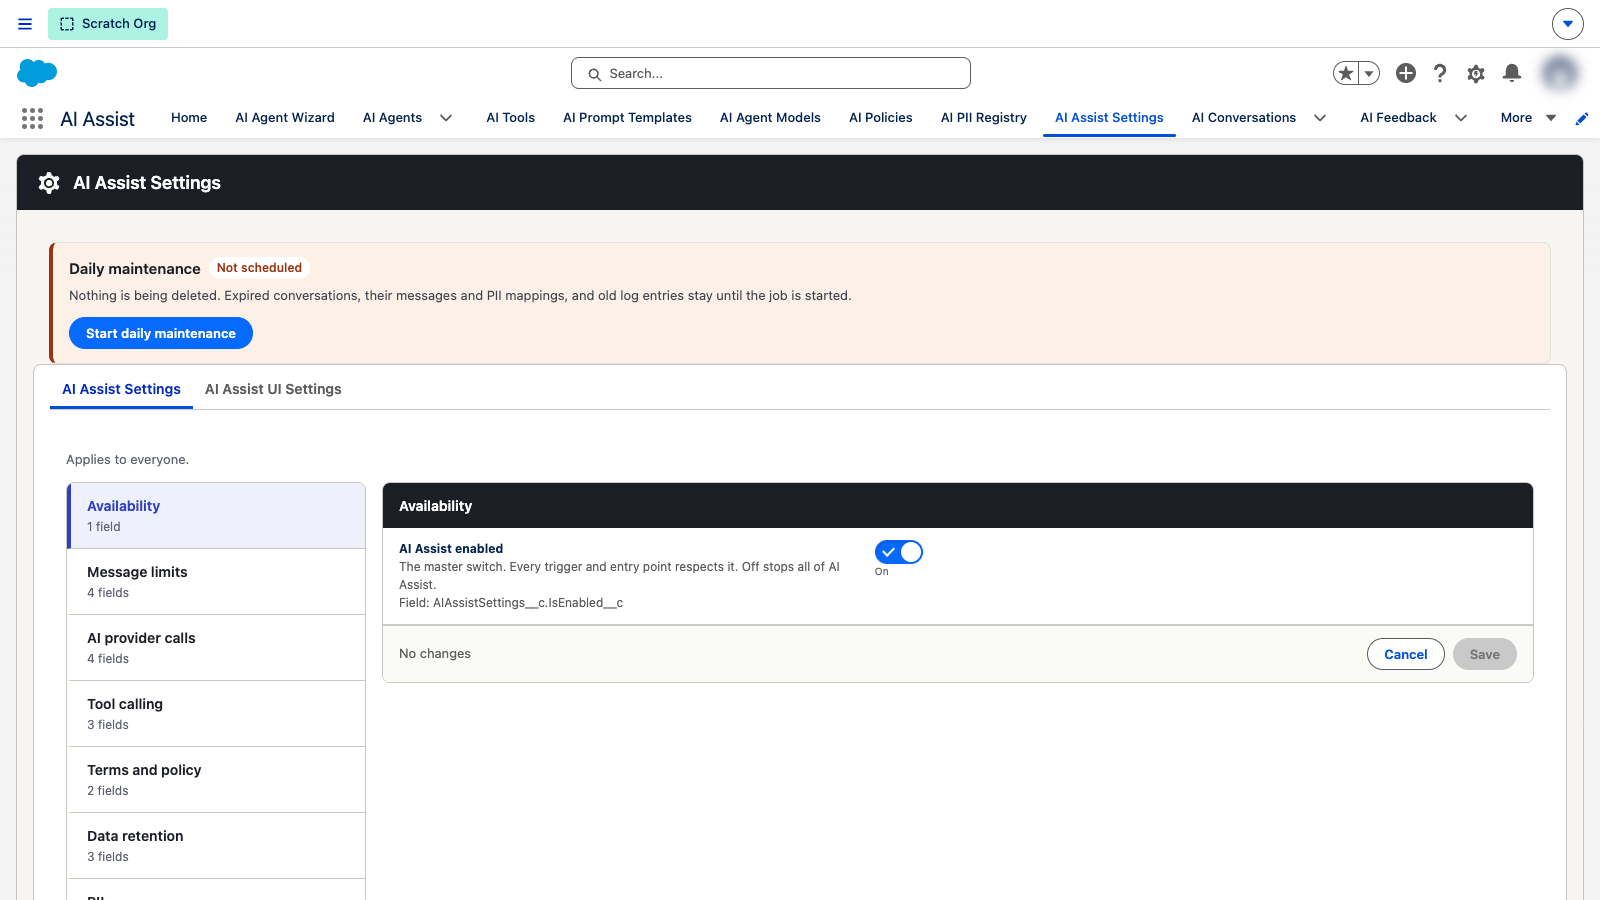
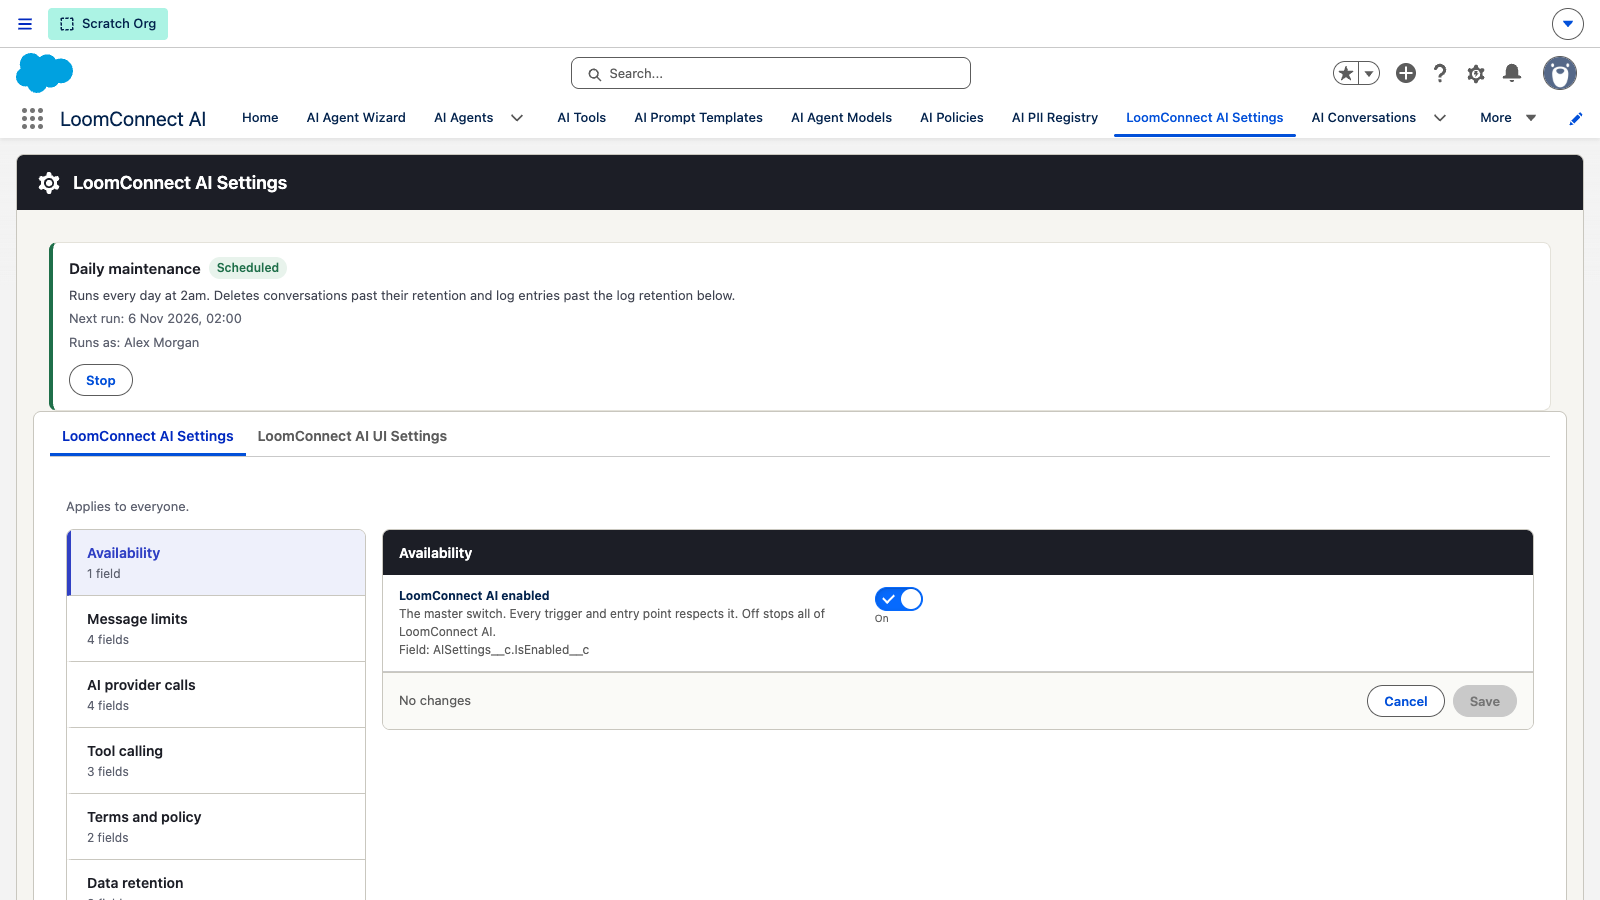
docs: retake documentation screenshots for LoomConnect AI
Retake every screenshot from the current development build, so they show
the LoomConnect AI name and the Twin Threads mark instead of "AI Assist"
and the old grid icon.

- Replace the 17 existing screenshots, keeping file names and sizes.
- Add model-connected (a passing connection test).
- Add utility-bar-chat (App Manager > Utility Items) and show it on the
  Utility bar tab of "Add the chat window"; the record page image now sits
  on the Record page tab.
- Retake the chat window and terms screen zoomed out so they are less dense.
- install-for-admins stays empty: there is no package install URL yet.

diff --git a/src/documentation/screenshots.js b/src/documentation/screenshots.js
@@ -30,7 +30,7 @@ export const screenshots = {
     capture: 'A permission set\'s External Credential Principal Access page with your LoomConnect AI principal added.',
   },
   'model-connected': {
-    file: '',
+    file: 'model-connected.png',
     width: 1600, height: 900,
     alt: 'The AI Agent Models tab with a passing connection test',
     capture: 'The AI Agent Models tab, with a model open and the connection test showing Connected.',
@@ -76,6 +76,12 @@ export const screenshots = {
     width: 1600, height: 900,
     alt: 'Lightning App Builder with the LoomConnect AI Chat component on a record page',
     capture: 'Lightning App Builder with LoomConnect AI Chat dropped into the right-hand column and its settings showing.',
+  },
+  'utility-bar-chat': {
+    file: 'utility-bar-chat.png',
+    width: 1600, height: 900,
+    alt: 'App Manager with LoomConnect AI Chat added as a utility item, showing its label, panel size and settings',
+    capture: 'Setup > App Manager > edit the app > Utility Items, with LoomConnect AI Chat added and its properties showing.',
   },
   'terms-screen': {
     file: 'terms-screen.png',
